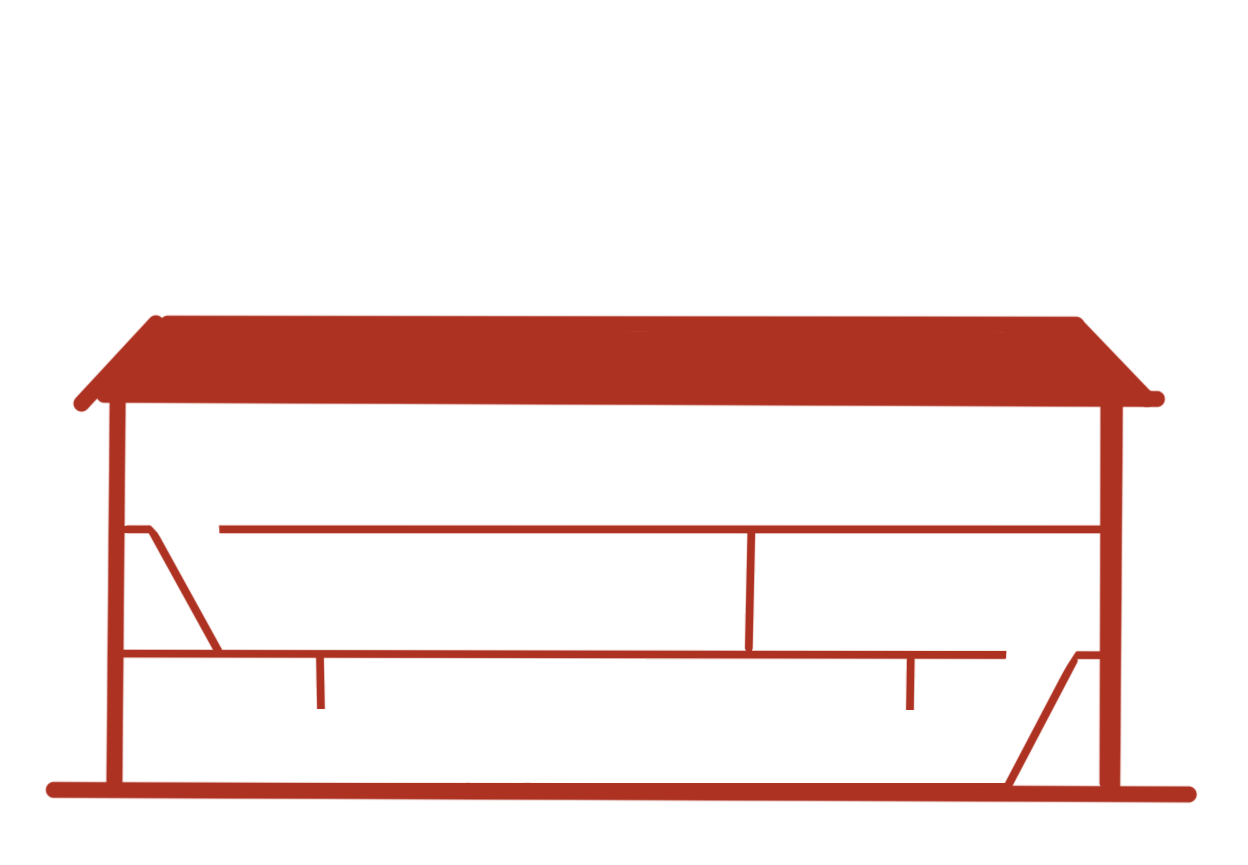
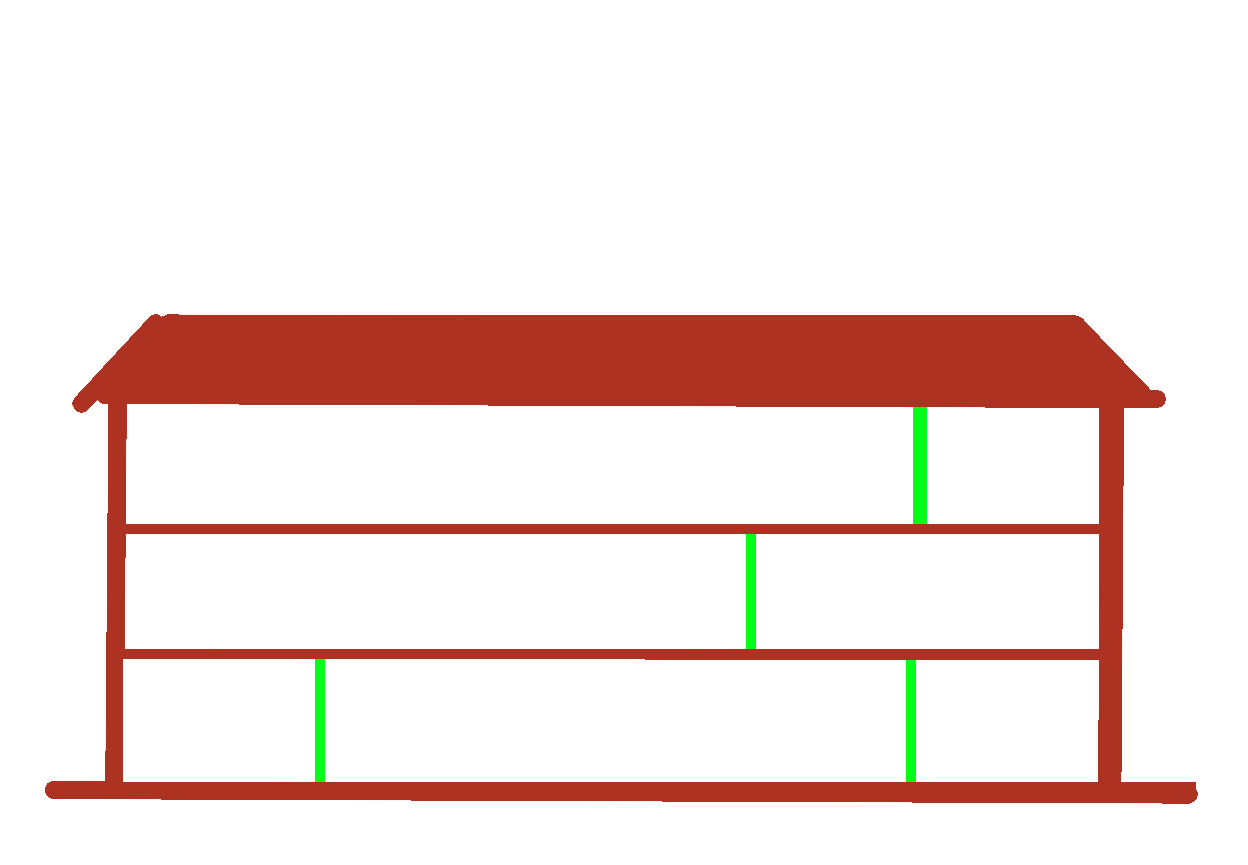
add door interactions when key in inventory

diff --git a/SKS/src/main/Game.java b/SKS/src/main/Game.java
@@ -2,7 +2,7 @@ package main;
 
 
 import entities.NPCs;
-import levels.LevelManager;
+import static entities.NPCs.NPC_SCALE;
 import entities.Player;
 import entities.interactables.Key;
 import entities.interactables.Knife;
@@ -10,8 +10,7 @@ import java.awt.*;
 import levels.LevelManager;
 import static utils.LoadSave.LEVEL_ONE;
 import static utils.LoadSave.LEVEL_ONE_HITBOX;
-
-import static entities.NPCs.NPC_SCALE;
+import utils.Methods;
 
 /**
  * Main class of the game, used to start the game
@@ -63,9 +62,10 @@ public class Game implements Runnable {
      */
     private void initClasses() {
         levelManager = new LevelManager(this);
-        key = new Key(450 , 750, 50, 20, "Key");
+        key = new Key(250 , 750, 50, 20, "Key");
         knife = new Knife(350, 750, 50, 20, "Knife");
         player = new Player(175 * SCALE, 670 * SCALE, (int)(128 * SCALE), (int)(128 * SCALE), levelManager);
+        Methods.setPlayer(player);
         npc = new NPCs(800 * SCALE, 500 * SCALE, (int)(31 * SCALE * NPC_SCALE), (int)(29 * SCALE * NPC_SCALE), "NPC1", levelManager);
         npc2 = new NPCs(950 * SCALE, 670 * SCALE, (int)(31 * SCALE * NPC_SCALE), (int)(29 * SCALE * NPC_SCALE), "NPC2", levelManager);
         npc3 = new NPCs(400 * SCALE, 450 * SCALE, (int)(31 * SCALE * NPC_SCALE), (int)(29 * SCALE * NPC_SCALE), "NPC3", levelManager);

diff --git a/SKS/src/utils/Methods.java b/SKS/src/utils/Methods.java
@@ -1,15 +1,19 @@
 package utils;
 
-import main.Game;
-
+import entities.Player;
+import entities.interactables.Key;
 import java.awt.geom.Rectangle2D;
 import java.awt.image.BufferedImage;
+import main.Game;
 
 /**
  * This class contains methods that are used in multiple classes.
  */
 public class Methods {
 
+    private static Player player;
+    private static Key key;
+    private static Game game;
     /**
      * Method used to check if an entity can move to a certain position.
      * @param x x-coordinate of the entity.
@@ -56,8 +60,18 @@ public class Methods {
         int green = (pixelColor >> 8) & 0xff;
         int blue = (pixelColor) & 0xff;
 
-        return red == 174 && green == 50 && blue == 34;
+        if (red == 174 && green == 50 && blue == 34) {
+            return true;
+        }
+        else if (red == 0 && green == 255 && blue == 25 && !player.getKeyIsPickedUp()) {
+            return true;
+        }
+        return false;
+    }
 
+    // singleton pattern
+    public static void setPlayer(Player playerInstance) {
+        player = playerInstance;
     }
 
     /**
